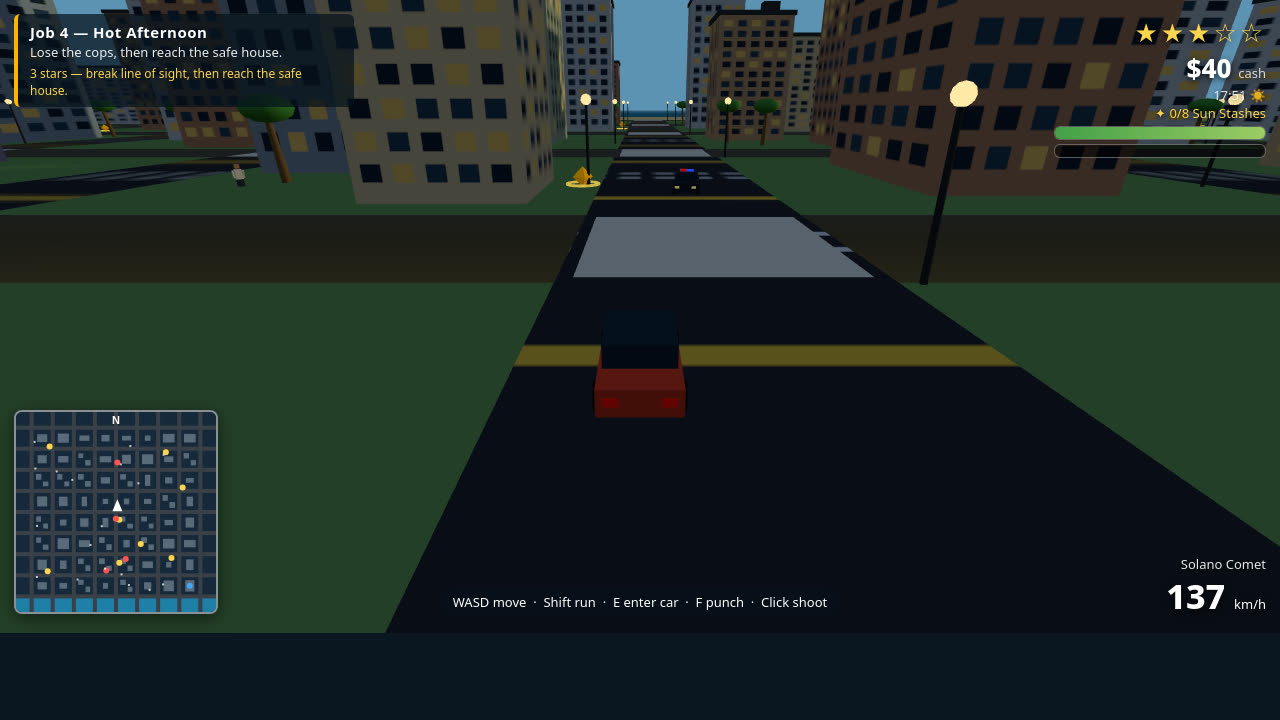
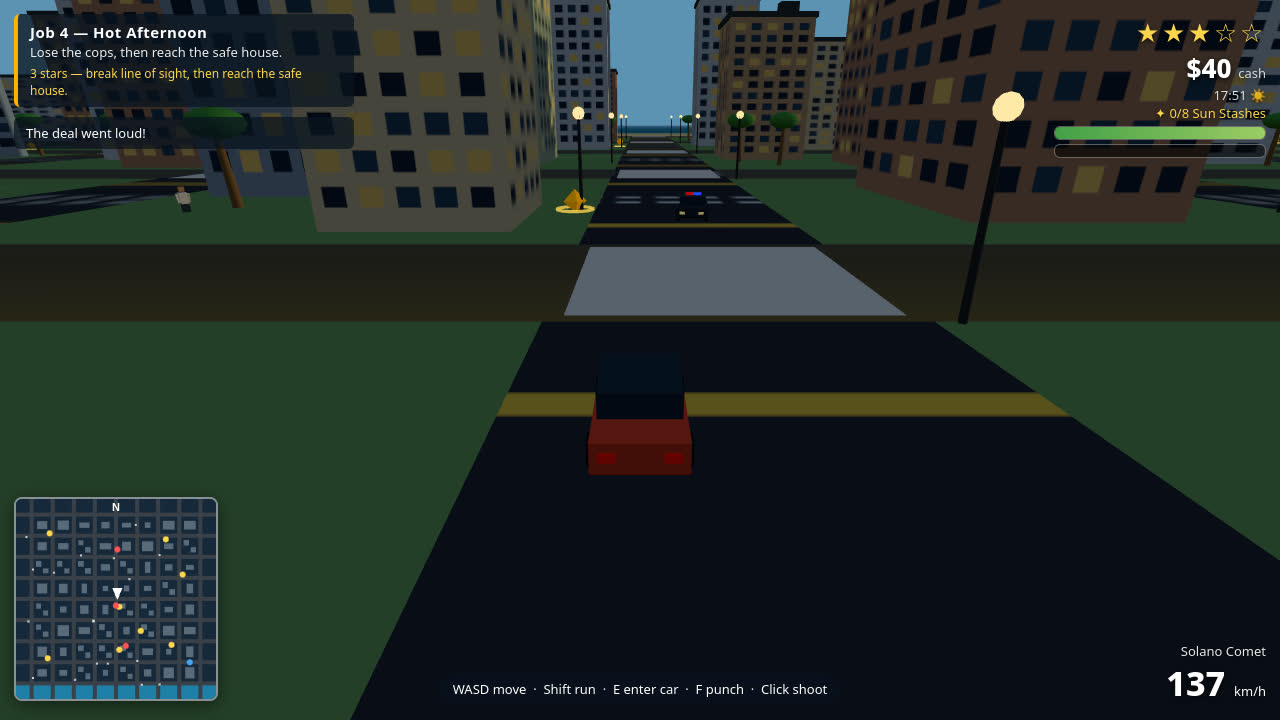
Round 5: 7 quick-win fixes from bug hunt — reachable mission targets, police ram/wanted cleanup, camera-aim shooting, traffic headings, minimap arrow, driveCar mesh freeze

diff --git a/game/src/main.js b/game/src/main.js
@@ -57,11 +57,10 @@ const G = {
   player: { x: 0, z: 0, heading: 0, speed: 0, inCar: false, car: null, moving: false },
   camYaw: 0, camPitch: 0.32, camDist: 9, camMode: 0,
   traffic: [], peds: [], policeCars: [], footCops: [],
-  parked: [], missionTarget: null, safehouse: null,
+  parked: [], missionTarget: null, safehouse: null, // set from missions.locations after createMissions — one snapped point, shared by HUD and missions
   tracers: [], elapsed: 0, muted: false,
   shotMode: !!shot,
 };
-G.safehouse = { x: CITY.half - CITY.pitch / 2, z: CITY.half - CITY.pitch / 2 };
 const playerMesh = makePlayerMesh(scene);
 
 // ---------- helpers ----------
@@ -92,8 +91,16 @@ function roadSpawnPoint() {
   const line = city.roadLines[Math.floor(rng.next() * city.roadLines.length)];
   const along = rng.range(-CITY.half, CITY.half);
   const horizontal = rng.chance(0.5);
-  return horizontal ? { x: along, z: line + 3.5, heading: rng.chance(0.5) ? 0 : Math.PI }
-                    : { x: line + 3.5, z: along, heading: rng.chance(0.5) ? Math.PI / 2 : -Math.PI / 2 };
+  // Heading convention: x += sin(h), z += cos(h), so h = 0 moves +z and
+  // h = PI/2 moves +x. A horizontal road (z fixed, x varies) therefore needs
+  // h = +/-PI/2; a vertical road (x fixed, z varies) needs h = 0/PI.
+  // Lane offset is right-hand: +3.5 for h = 0 / -PI/2, -3.5 for h = PI / PI/2.
+  if (horizontal) {
+    const east = rng.chance(0.5);
+    return { x: along, z: line + (east ? -3.5 : 3.5), heading: east ? Math.PI / 2 : -Math.PI / 2 };
+  }
+  const south = rng.chance(0.5);
+  return { x: line + (south ? 3.5 : -3.5), z: along, heading: south ? 0 : Math.PI };
 }
 function spawnTraffic(n) {
   for (let i = 0; i < n; i += 1) {
@@ -141,6 +148,10 @@ const missions = createMissions({
   addCash,
   setWanted,
   saveGame,
+  // City queries missions needs to keep its targets on reachable ground.
+  nearestRoadPoint: (x, z) => city.nearestRoadPoint(x, z),
+  isRoad: (x, z) => city.isRoad(x, z),
+  collideCircle: (x, z, r) => city.collideCircle(x, z, r),
   spawnGoon(x, z) {
     const goon = makePed(scene, rng, x, z);
     goon.health = 120; goon.state = 'goon'; goon.speed = 2.2;
@@ -150,6 +161,41 @@ const missions = createMissions({
     return goon;
   },
 });
+
+// The safe house has exactly one definition: the snapped point missions
+// computed (same point the HUD draws and Jobs 4/5 target).
+G.safehouse = missions.locations.safehouse;
+
+// Boot assert: every mission target must be reachable on foot. A target
+// inside a building footprint can never be completed, so fail loudly here
+// instead of shipping a game that quietly cannot be finished.
+(function assertMissionTargets() {
+  const loc = missions.locations;
+  const targets = [
+    { name: 'garage (Job 1/3 return)', x: loc.garage.x + 27, z: loc.garage.z, r: 8 },
+    ...loc.drops.map((d, i) => ({ name: `drop-off ${i + 1} (Job 2)`, x: d.x, z: d.z, r: 7 })),
+    { name: 'safehouse (Job 4/5)', x: loc.safehouse.x, z: loc.safehouse.z, r: 9 },
+    { name: 'bank (Job 5)', x: loc.bank.x, z: loc.bank.z + 14, r: 7 },
+    { name: 'pier (Job 3)', x: loc.pier.x, z: loc.pier.z, r: 7 },
+    { name: 'goon (Job 3)', x: loc.pier.x, z: loc.pier.z - 6, r: 7 },
+  ];
+  for (const t of targets) {
+    // Standable if the point itself fits a player, or any point within the
+    // atTarget radius does (the marker sits at a building's edge, for one).
+    let ok = !city.collideCircle(t.x, t.z, 1.5);
+    if (!ok) {
+      for (let a = 0; a < 8 && !ok; a += 1) {
+        const ang = (a * Math.PI) / 4;
+        ok = !city.collideCircle(t.x + Math.cos(ang) * t.r * 0.8, t.z + Math.sin(ang) * t.r * 0.8, 1.5);
+      }
+    }
+    if (!ok) {
+      console.error(`[boot] UNREACHABLE mission target: ${t.name} at (${t.x}, ${t.z}) — inside a building footprint`);
+      throw new Error(`Unreachable mission target: ${t.name}`);
+    }
+  }
+  console.log('[boot] mission targets reachable:', targets.map(t => t.name).join(', '));
+})();
 
 // ---------- input ----------
 const keys = new Set();
@@ -311,8 +357,11 @@ function toggleCar() {
 
 // ---------- combat ----------
 function nearestTarget(maxDist, maxAngle) {
-  const fx = Math.sin(camera.rotation.y), fz = Math.cos(camera.rotation.y);
-  // Use the player's facing when on foot: camera yaw matches player heading closely.
+  // Aim where the camera looks, not where the body faces: on foot the
+  // player's heading only changes while moving, but the camera yaw follows
+  // every mouse drag — standing still and turning to aim used to miss.
+  const aim = G.player.inCar ? G.player.heading : G.camYaw;
+  const ax = Math.sin(aim), az = Math.cos(aim);
   const px = G.player.x, pz = G.player.z;
   let best = null, bd = maxDist;
   const candidates = [...G.peds, ...G.footCops];
@@ -320,7 +369,7 @@ function nearestTarget(maxDist, maxAngle) {
     if (!t.alive) continue;
     const dx = t.x - px, dz = t.z - pz, d = Math.hypot(dx, dz);
     if (d > maxDist || d < 0.5) continue;
-    const dot = (dx * Math.sin(G.player.heading) + dz * Math.cos(G.player.heading)) / d;
+    const dot = (dx * ax + dz * az) / d;
     if (dot < Math.cos(maxAngle)) continue;
     if (d < bd) { bd = d; best = t; }
   }
@@ -336,7 +385,7 @@ function shoot() {
   if (G.ammo <= 0) { audio.click(); hud.toast('Out of ammo — press R, or visit Mara\'s Garage to restock.'); return; }
   G.ammo -= 1; audio.gunshot();
   const from = new THREE.Vector3(G.player.x, 1.5, G.player.z);
-  const dir = new THREE.Vector3(Math.sin(G.player.heading), -0.02, Math.cos(G.player.heading));
+  const dir = new THREE.Vector3(Math.sin(G.camYaw), -0.02, Math.cos(G.camYaw));
   const to = from.clone().add(dir.clone().multiplyScalar(45));
   tracer(from, to);
   const t = nearestTarget(45, 0.45);
@@ -376,10 +425,33 @@ function clearPolice() {
   for (const c of G.footCops) { c.alive = false; c.mesh.visible = false; }
   G.policeCars = []; G.footCops = [];
 }
+// Trim a police roster down to the wanted level's count, removing the
+// farthest units from the player first.
+function trimPolice(arr, want, remove) {
+  while (arr.length > want) {
+    let far = 0, fd = -1;
+    for (let i = 0; i < arr.length; i += 1) {
+      const d = Math.hypot(arr[i].x - G.player.x, arr[i].z - G.player.z);
+      if (d > fd) { fd = d; far = i; }
+    }
+    const u = arr.splice(far, 1)[0];
+    u.alive = false;
+    remove(u);
+  }
+}
 function policeStep(dt) {
   // How many units the wanted level calls for.
   const wantCars = G.wanted >= 1 ? Math.min(4, G.wanted) : 0;
   const wantCops = G.wanted >= 2 ? Math.min(3, G.wanted - 1) : 0;
+  // Drop dead units from the rosters first: a dead foot cop left in
+  // G.footCops blocked its replacement from ever spawning, and a corpse
+  // counted toward "nearest cop" so the heat could never cool off.
+  for (let i = G.footCops.length - 1; i >= 0; i -= 1) {
+    if (!G.footCops[i].alive) G.footCops.splice(i, 1);
+  }
+  for (let i = G.policeCars.length - 1; i >= 0; i -= 1) {
+    if (!G.policeCars[i].alive) { scene.remove(G.policeCars[i].mesh); G.policeCars.splice(i, 1); }
+  }
   while (G.policeCars.length < wantCars) {
     const p = roadSpawnPoint();
     // Spawn a block or two away from the player, on a road.
@@ -395,6 +467,10 @@ function policeStep(dt) {
     c.mesh.children[0].material = new THREE.MeshLambertMaterial({ color: 0x1a2a44 });
     G.footCops.push(c);
   }
+  // If the roster grew past what the wanted level calls for (heat dropped a
+  // star mid-chase), send the farthest units home first.
+  trimPolice(G.policeCars, wantCars, c => scene.remove(c.mesh));
+  trimPolice(G.footCops, wantCops, c => { c.mesh.visible = false; });
   // Chase: steer toward the player, ram when close.
   for (const car of G.policeCars) {
     if (!car.alive) continue;
@@ -424,10 +500,20 @@ function policeStep(dt) {
         G.player.car.speed *= 0.6; car.speed *= 0.4;
         if (Math.abs(G.player.car.speed) > 8) audio.crash();
       } else {
-        damagePlayer(12 * dt * 10, true);
+        damagePlayer(12 * dt, true);
+        // Shove the player away from the interceptor, but never through a
+        // wall: try the full push, then x-only, then z-only (same slide as
+        // movePlayer), so a ram against a building can't wedge Rico inside it.
         const d = Math.max(0.1, dist);
-        G.player.x += (G.player.x - car.x) / d * 2 * dt * 10;
-        G.player.z += (G.player.z - car.z) / d * 2 * dt * 10;
+        const kx = (G.player.x - car.x) / d * 2 * dt;
+        const kz = (G.player.z - car.z) / d * 2 * dt;
+        if (!city.collideCircle(G.player.x + kx, G.player.z + kz, PLAYER.radius)) {
+          G.player.x += kx; G.player.z += kz;
+        } else if (!city.collideCircle(G.player.x + kx, G.player.z, PLAYER.radius)) {
+          G.player.x += kx;
+        } else if (!city.collideCircle(G.player.x, G.player.z + kz, PLAYER.radius)) {
+          G.player.z += kz;
+        }
       }
     }
   }
@@ -447,9 +533,11 @@ function policeStep(dt) {
     cop.mesh.rotation.y = cop.heading;
   }
   // Wanted decay: stay out of sight and quiet, and the heat cools off.
+  // Only living units count — a corpse at its death spot used to pin the
+  // nearest-cop distance and keep the wanted level stuck forever.
   const nearestCop = Math.min(
-    ...G.policeCars.map(c => Math.hypot(c.x - G.player.x, c.z - G.player.z)),
-    ...G.footCops.map(c => Math.hypot(c.x - G.player.x, c.z - G.player.z)),
+    ...G.policeCars.filter(c => c.alive).map(c => Math.hypot(c.x - G.player.x, c.z - G.player.z)),
+    ...G.footCops.filter(c => c.alive).map(c => Math.hypot(c.x - G.player.x, c.z - G.player.z)),
     999);
   if (G.wanted > 0 && G.elapsed - G.lastCrime > 12 && nearestCop > 55) {
     G.quietTimer += dt;

diff --git a/game/src/missions.js b/game/src/missions.js
@@ -11,14 +11,35 @@ export function createMissions(api) {
   };
   const { half, pitch } = CITY;
   const garage = { x: -half + pitch / 2, z: -half + pitch / 2 };
-  const safehouse = { x: half - pitch / 2, z: half - pitch / 2 };
   const bank = { x: half - pitch / 2, z: -half + pitch / 2 };
   const pier = { x: half - 60, z: half + 40 };
+  // A point is standable when a player-sized circle fits there without
+  // touching a building footprint.
+  const STAND_CLEAR = 1.5;
+  // Snap a target onto the nearest road: block-corner coordinates (multiples
+  // of pitch) land inside building footprints, where the atTarget radius can
+  // never be reached on foot. If the snapped road point itself is blocked
+  // (a building jutting onto the road), walk along that road until clear.
+  function snapToRoad(x, z) {
+    const p = api.nearestRoadPoint(x, z);
+    if (!api.collideCircle(p.x, p.z, STAND_CLEAR)) return p;
+    // nearestRoadPoint moved x onto a vertical road (runs along z) or moved
+    // z onto a horizontal road (runs along x) — walk that axis both ways.
+    const alongZ = p.x !== x;
+    for (let d = 2; d <= 40; d += 2) {
+      for (const s of [1, -1]) {
+        const q = alongZ ? { x: p.x, z: p.z + s * d } : { x: p.x + s * d, z: p.z };
+        if (!api.collideCircle(q.x, q.z, STAND_CLEAR)) return q;
+      }
+    }
+    return p; // still blocked — the boot assert in main.js will catch it loudly
+  }
+  const safehouse = snapToRoad(half - pitch / 2, half - pitch / 2);
   const drops = [
     { x: -half + pitch * 3.5, z: half - pitch * 1.5 },
     { x: half - pitch * 2.5, z: -half + pitch * 4.5 },
     { x: -half + pitch * 1.5, z: -half + pitch * 5.5 },
-  ];
+  ].map(d => snapToRoad(d.x, d.z));
 
   function setTarget(x, z, label) {
     state.target = { x, z, label };

diff --git a/game/src/entities.js b/game/src/entities.js
@@ -153,18 +153,20 @@ export function driveCar(car, input, dt, city) {
     if (!hitX) car.x = nx;
     if (!hitZ) car.z = nz;
     if (hitX && hitZ) { car.speed *= 0.4; }
-    return true;
+  } else {
+    car.x = nx; car.z = nz;
   }
-  car.x = nx; car.z = nz;
+  // Mesh, body roll and wheel spin update every frame, crash or not: they
+  // used to sit behind the early `return true` above, so a car grinding a
+  // wall froze in place and then teleported once it came free.
   car.mesh.position.set(car.x, 0, car.z);
   car.mesh.rotation.y = car.heading;
-  // Body roll and wheel spin for feel.
   car.mesh.rotation.z = -car.steer * Math.min(1, Math.abs(car.speed) / 20) * 0.06;
   const spin = car.speed * dt * 2.4;
   for (const w of car.wheels) w.rotation.x += spin;
   car.wheels[0].rotation.y = car.steer * 0.4;
   car.wheels[1].rotation.y = car.steer * 0.4;
-  return false;
+  return hit;
 }
 
 // --- traffic AI: follow the road grid, turn at intersections -----------------

diff --git a/game/src/hud.js b/game/src/hud.js
@@ -78,7 +78,7 @@ export function createHud() {
     for (const c of world.traffic) if (c.alive) { const [mx, mz] = toMap(c.x, c.z); mm.fillRect(mx - 1, mz - 1, 2, 2); }
     // Player arrow.
     const [px, pz] = toMap(world.player.x, world.player.z);
-    mm.save(); mm.translate(px, pz); mm.rotate(-world.player.heading);
+    mm.save(); mm.translate(px, pz); mm.rotate(Math.PI - world.player.heading);
     mm.fillStyle = '#fff'; mm.beginPath(); mm.moveTo(0, -7); mm.lineTo(5, 5); mm.lineTo(-5, 5); mm.closePath(); mm.fill();
     mm.restore();
     // North tick.
